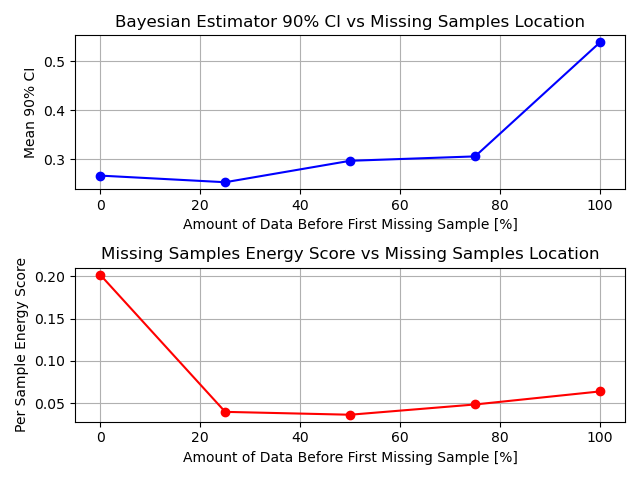
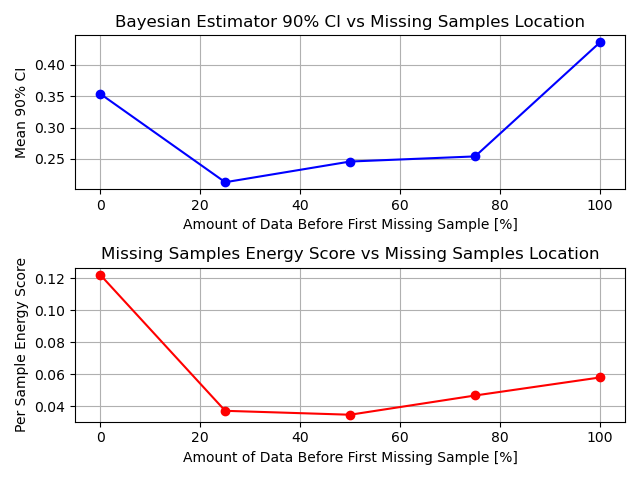
Run with model args 3,0,1,3,1,1,12.

diff --git a/ARIMA/examples/bayesian.py b/ARIMA/examples/bayesian.py
@@ -16,7 +16,7 @@ from ARIMA.examples.utils import load_data, plots_dir, timeit
 from ARIMA.examples import __name__ as __examples__name__
 from torch.distributions.transforms import ExpTransform, AffineTransform
 
-def create_model(obs_idx, num_predictions, observations, model_args=(3, 0, 1, 0, 1, 2, 12)):
+def create_model(obs_idx, num_predictions, observations, model_args=(3, 0, 1, 3, 1, 1, 12)):
     # Create model with non-overlapping observed and predicted sample indices.
     predict_idx = [*range(max(obs_idx) + 1 + num_predictions)]
     predict_idx = [idx for idx in predict_idx if idx not in obs_idx]
